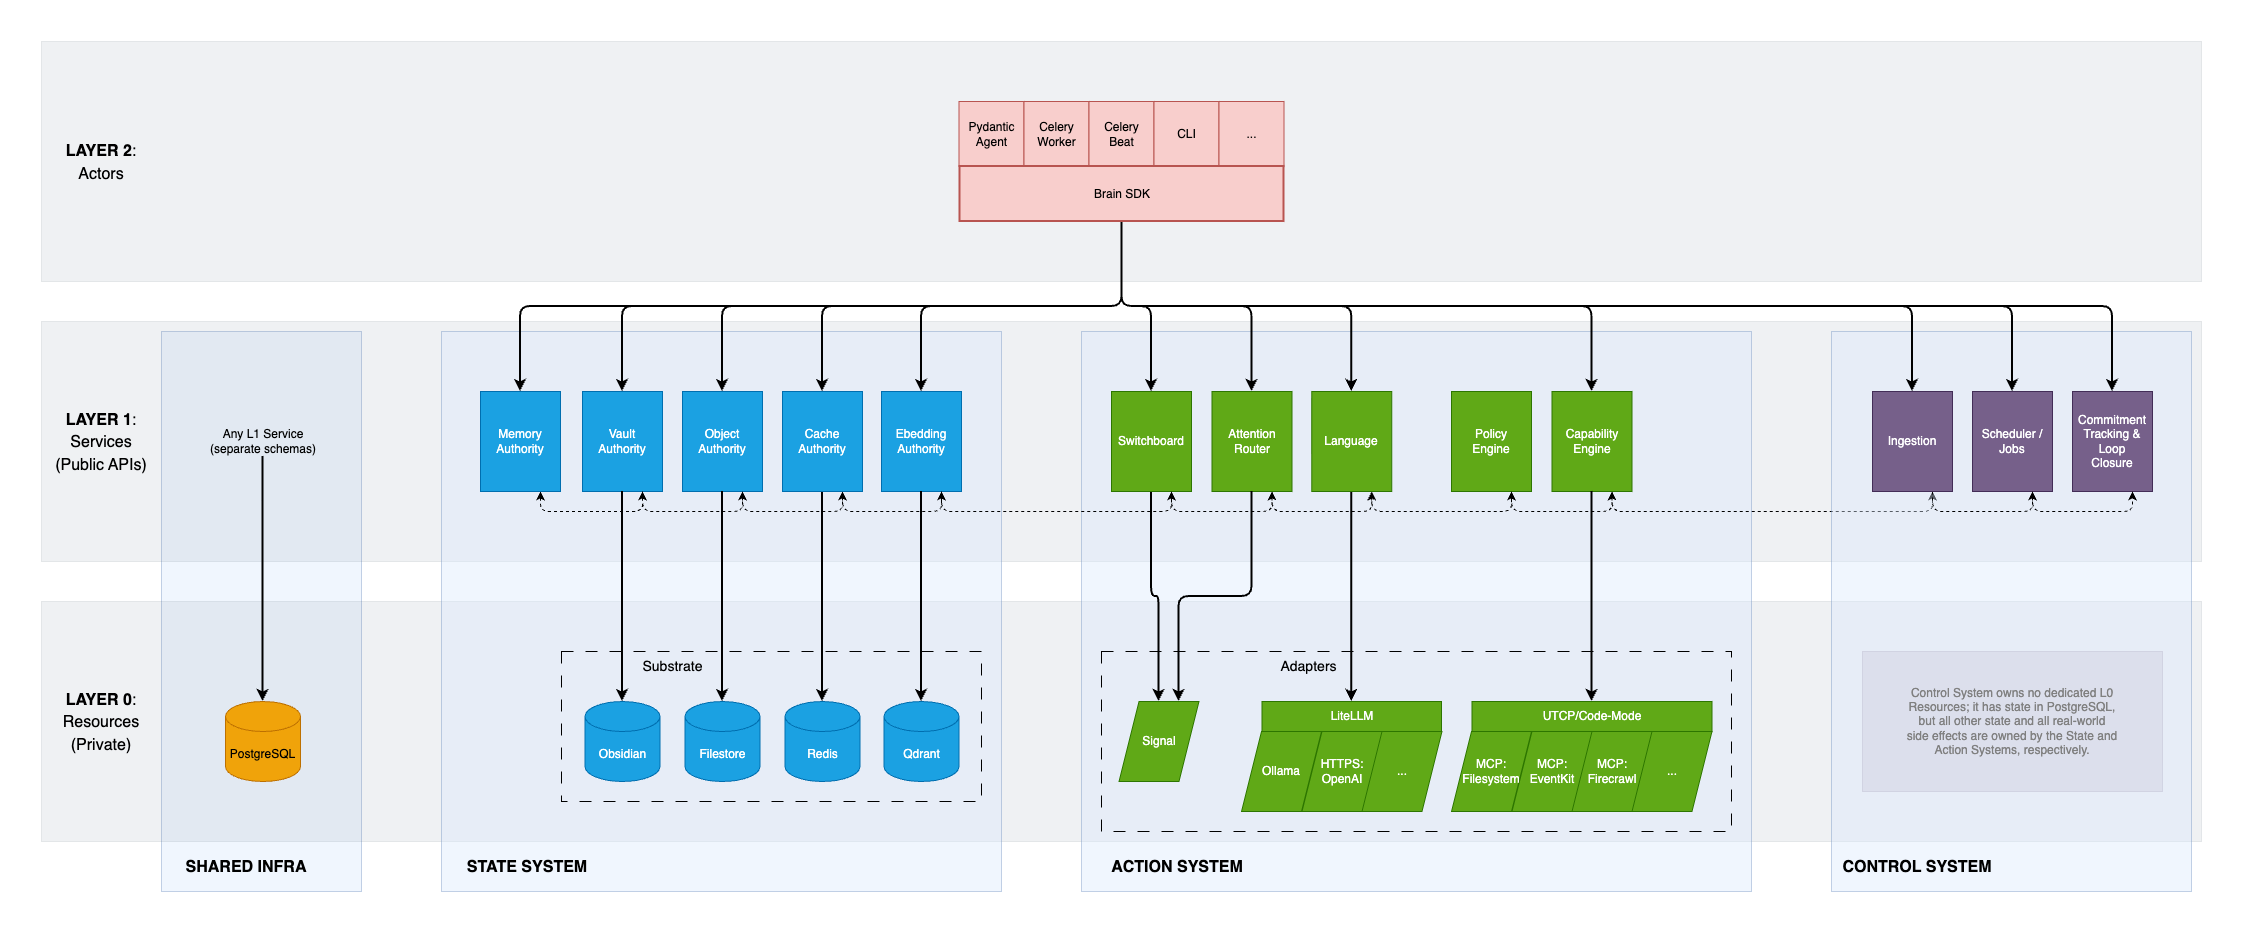
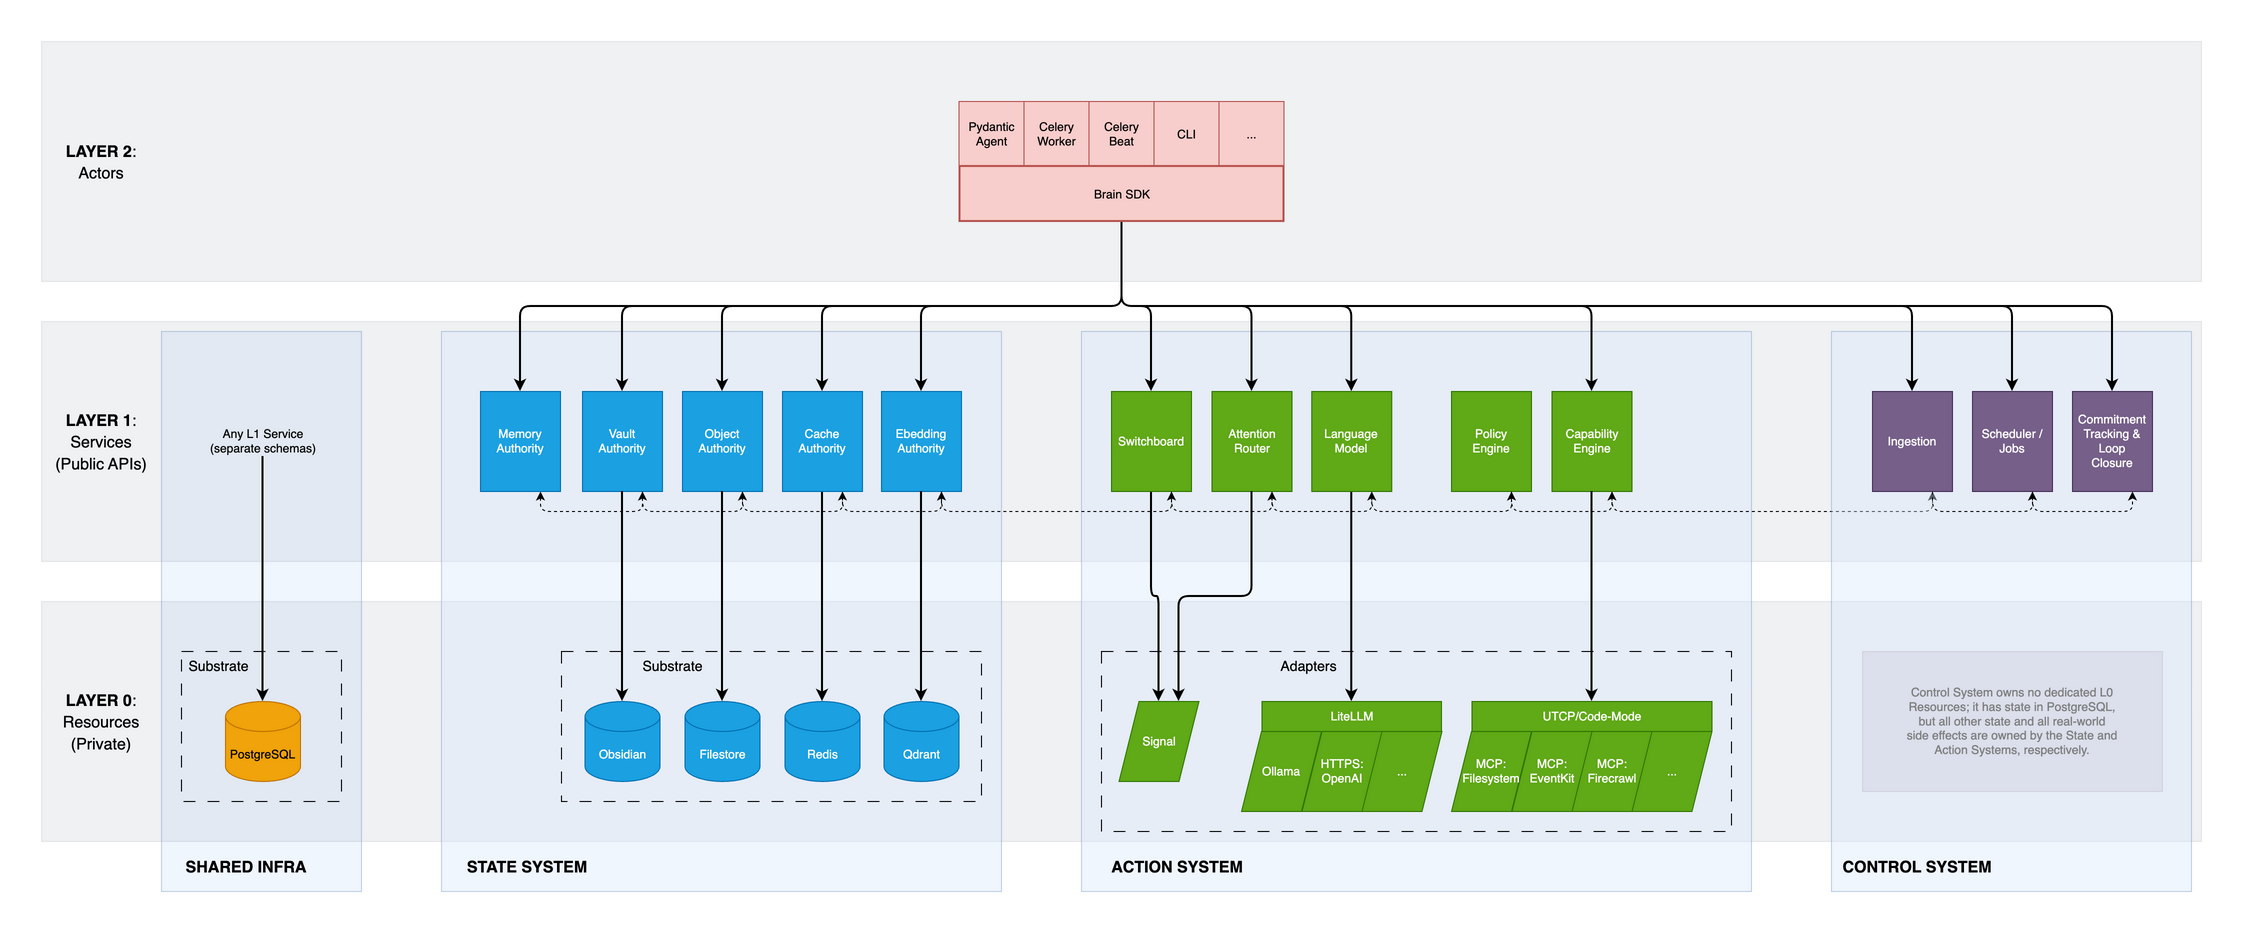
Autogenerated glossary of key terms

diff --git a/scripts/generate_glossary_docs.py b/scripts/generate_glossary_docs.py
@@ -1,0 +1,159 @@
+"""Generate Markdown glossary docs from canonical YAML source."""
+
+from __future__ import annotations
+
+import argparse
+import re
+import sys
+from dataclasses import dataclass
+from pathlib import Path
+
+import yaml
+
+DEFAULT_INPUT = "docs/glossary.yaml"
+DEFAULT_OUTPUT = "docs/glossary.md"
+GENERATED_NOTE = (
+    "This document is generated from `docs/glossary.yaml`. Do not edit by hand."
+)
+
+
+@dataclass(frozen=True)
+class GlossaryTerm:
+    """One glossary term and definition entry."""
+
+    term: str
+    definition: str
+
+
+def _title_case_term(term: str) -> str:
+    """Return normalized title-cased display text for a glossary term."""
+    parts = term.split()
+    return " ".join(part[:1].upper() + part[1:].lower() for part in parts if part)
+
+
+def _normalize_definition_terms(*, definition: str, known_terms: list[str]) -> str:
+    """Ensure known term references are title-cased and italicized in a definition."""
+    normalized = definition
+
+    for source_term in sorted(known_terms, key=len, reverse=True):
+        display_term = _title_case_term(source_term)
+        escaped = re.escape(source_term)
+
+        # Normalize backticked glossary terms to plain text before italics pass.
+        normalized = re.sub(
+            rf"`\s*{escaped}\s*`",
+            display_term,
+            normalized,
+            flags=re.IGNORECASE,
+        )
+
+        pattern = re.compile(
+            rf"(?<![A-Za-z0-9])({escaped})(?![A-Za-z0-9])",
+            flags=re.IGNORECASE,
+        )
+
+        def _replace(match: re.Match[str]) -> str:
+            start = match.start()
+            end = match.end()
+            left_char = normalized[start - 1] if start > 0 else ""
+            right_char = normalized[end] if end < len(normalized) else ""
+
+            # If already italicized, just enforce title casing.
+            if left_char == "_" and right_char == "_":
+                return display_term
+            return f"_{display_term}_"
+
+        normalized = pattern.sub(_replace, normalized)
+
+    return normalized
+
+
+def _parse_args() -> argparse.Namespace:
+    """Parse CLI arguments for glossary generation."""
+    parser = argparse.ArgumentParser(description=__doc__)
+    parser.add_argument(
+        "--input",
+        default=DEFAULT_INPUT,
+        help="Path to glossary YAML input file.",
+    )
+    parser.add_argument(
+        "--output",
+        default=DEFAULT_OUTPUT,
+        help="Path to generated Markdown output file.",
+    )
+    return parser.parse_args()
+
+
+def _load_glossary(path: Path) -> tuple[str, list[GlossaryTerm]]:
+    """Load and validate glossary YAML data."""
+    raw = yaml.safe_load(path.read_text(encoding="utf-8"))
+    if not isinstance(raw, dict):
+        raise ValueError("glossary YAML root must be a mapping")
+
+    title = str(raw.get("title", "")).strip()
+    if not title:
+        raise ValueError("glossary title is required")
+
+    terms_raw = raw.get("terms")
+    if not isinstance(terms_raw, list):
+        raise ValueError("glossary terms must be a list")
+
+    terms: list[GlossaryTerm] = []
+    raw_terms: list[str] = []
+    for item in terms_raw:
+        if not isinstance(item, dict):
+            raise ValueError("each glossary term entry must be a mapping")
+        term = str(item.get("term", "")).strip()
+        definition = str(item.get("definition", "")).strip()
+        if not term:
+            raise ValueError("glossary term is required")
+        if not definition:
+            raise ValueError(f"definition is required for term '{term}'")
+        raw_terms.append(term)
+        terms.append(GlossaryTerm(term=term, definition=definition))
+
+    normalized_terms = [
+        GlossaryTerm(
+            term=term.term,
+            definition=_normalize_definition_terms(
+                definition=term.definition, known_terms=raw_terms
+            ),
+        )
+        for term in terms
+    ]
+
+    normalized_terms.sort(key=lambda item: item.term.casefold())
+    return title, normalized_terms
+
+
+def _render_markdown(*, title: str, terms: list[GlossaryTerm]) -> str:
+    """Render glossary markdown in deterministic bullet format."""
+    lines = [f"# {title}", "", GENERATED_NOTE, ""]
+    for item in terms:
+        lines.append(f"- **{item.term} &mdash;** {item.definition}")
+    lines.append("")
+    return "\n".join(lines)
+
+
+def main() -> int:
+    """Generate glossary markdown from canonical YAML file."""
+    args = _parse_args()
+    repo_root = Path(__file__).resolve().parents[1]
+    input_path = (repo_root / args.input).resolve()
+    output_path = (repo_root / args.output).resolve()
+
+    try:
+        title, terms = _load_glossary(input_path)
+        markdown = _render_markdown(title=title, terms=terms)
+    except Exception as exc:  # noqa: BLE001
+        print(f"Failed to generate glossary docs: {exc}", file=sys.stderr)
+        return 1
+
+    output_path.parent.mkdir(parents=True, exist_ok=True)
+    output_path.write_text(markdown, encoding="utf-8")
+    print(f"Wrote {output_path}")
+    return 0
+
+
+if __name__ == "__main__":
+    raise SystemExit(main())

diff --git a/docs/boundaries-and-responsibilities.md b/docs/boundaries-and-responsibilities.md
@@ -76,15 +76,21 @@ has access to exactly one Substrate, and is the only component with direct
 access to that substrate. It's a strict owndership boundary.
 
 Current Authorities:
-- **Vault Authority Service** (VAS) owns the Personal Knowledge Base 
 - **Cache Authority Service** (CAS) owns caching and queueing
-- **Object Authority Service** (OAS) owns blobs
+- **Embedding Authority Service** (EAS) owns vector search by source/chunk
 - **Memory Authority Service** (MAS) owns Agent recall & context management
+- **Object Authority Service** (OAS) owns blobs
+- **Vault Authority Service** (VAS) owns the Personal Knowledge Base 
 
 ## Action System
 The Action System is responsible for "doing" things with external (real-world)
 consequences: consuming and producing signals/triggers/messages, reading and
 writing state, and the invocation of such logic.
+
+### Language Model
+- Gates access to Large Language Models
+- Exposes both Embedding and Inference capabilities
+- Allows config-parameterization of providers, models, version, flags, etc.
 
 ### Capability Engine
 - Owns Capability registry (Ops and Skills)
@@ -169,6 +175,13 @@ To do this cleanly, it means:
 
 ------------------------------------------------------------------------
 # Public APIs
+TL;DR &mdash; `services/*/*/__init__.py` exports a list of interfaces.
+
+Each Service must define a public API. These public APIs:
+- Are the canonical and authoritative (Python) interface to the Service
+- Are the sole permitted surface for callers (e.g. other Components)
+- 
+
 TL;DR &mdash; Package-versioned protobufs w/ gRPC
 
 Each L1 Service must define a public API via a `.proto`. These public APIs:

diff --git a/docs/glossary.md b/docs/glossary.md
@@ -1,0 +1,10 @@
+# Glossary of Terms
+
+This document is generated from `docs/glossary.yaml`. Do not edit by hand.
+
+- **Actor &mdash;** A client of the Brain Core SDK, such as the Agent, CLI, or Celery Worker.
+- **Adapter &mdash;** A _Resource_ which governs interaction with the outside world such as an MCP Server, messaging platform, web API, etc.
+- **Component &mdash;** An isolated unit of responsibility or work. Each _Actor_, _Service_, and _Resource_ is a _Component_.
+- **Resource &mdash;** Trustees of side effects. All real-world consequences are gated by a _Resource_ _Component_. Types are _Substrate_ and _Adapter_.
+- **Service &mdash;** The primary carriers of business logic, responsible for coordinating system state and behavior.
+- **Substrate &mdash;** A _Resource_ which governs state, such as a database, document store, or cache.
